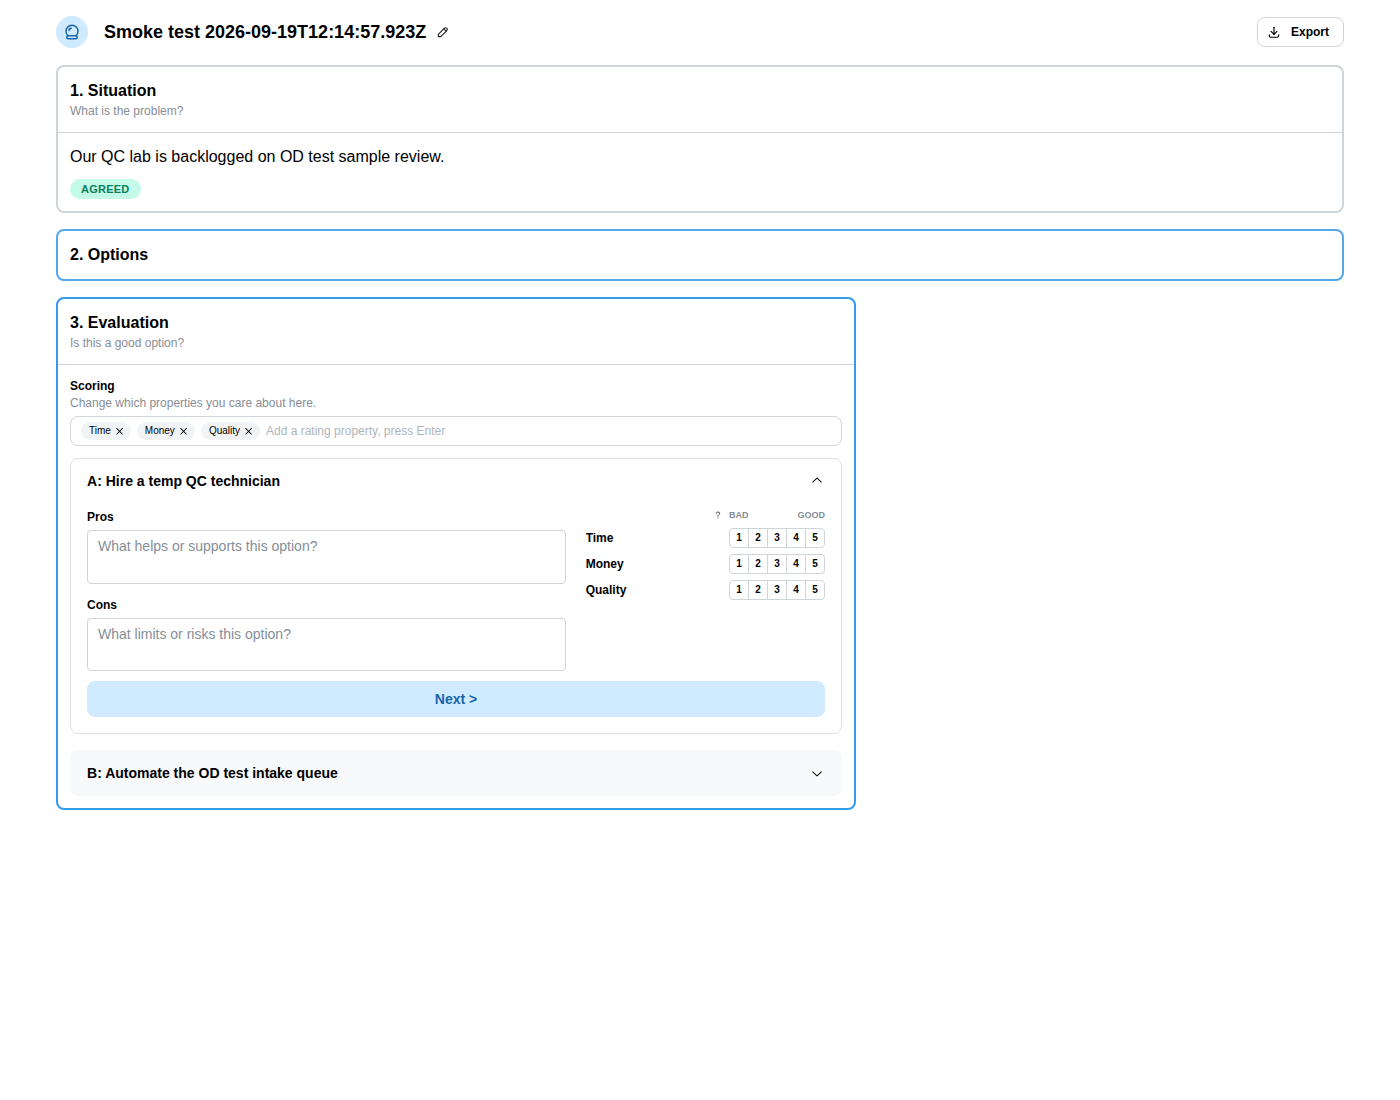
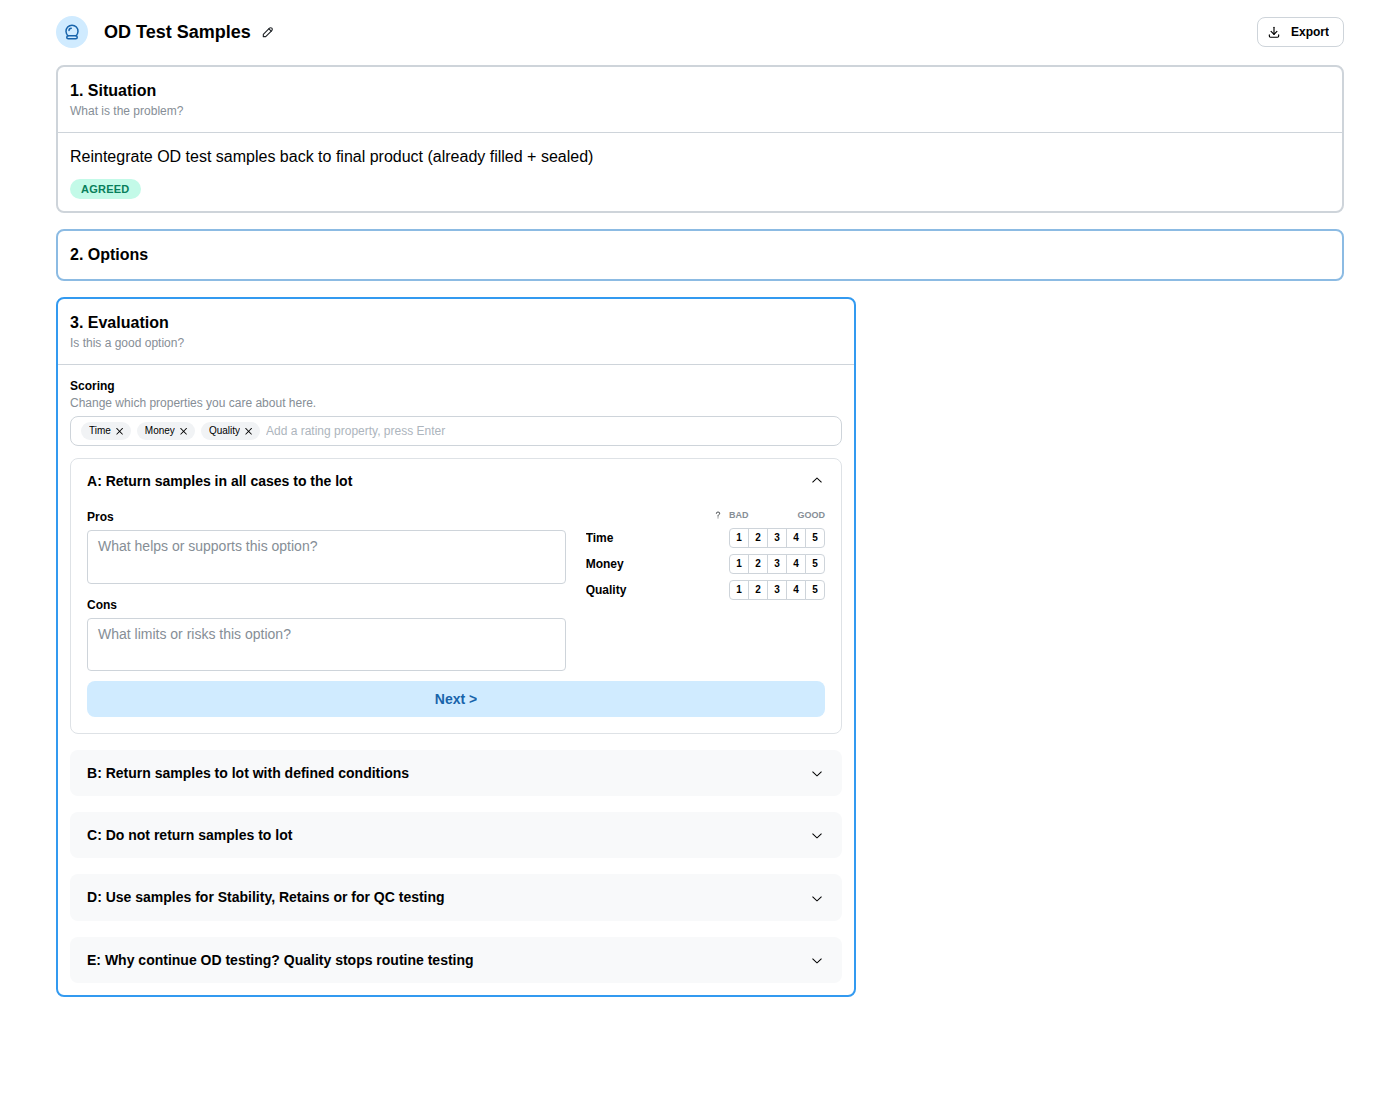
update run-app steps and screenshots

diff --git a/docs/walkthrough.md b/docs/walkthrough.md
@@ -1,7 +1,9 @@
 # Walkthrough
 
-A screenshot tour of the main user journey, one phase at a time. These images are generated,
-not hand-curated — regenerate them any time with `npm run docs:screenshots` (see
+A screenshot tour of the main user journey, one phase at a time, using the real worked example
+from `assets/original-whiteboard-example.png` (a pharma/QC decision about what to do with OD test
+samples) — text and scores are verbatim off that board. These images are generated, not
+hand-curated — regenerate them any time with `npm run docs:screenshots` (see
 `scripts/capture-doc-screenshots.sh`), which runs the same tested step sequence as
 `scripts/smoke-test.mjs`, so they can never drift from what's actually verified to work.
 
@@ -24,7 +26,7 @@ agreement check, with the rest of the phases appearing as the team moves through
 The team frames the problem in one or two sentences and confirms everyone agrees with it before
 moving on.
 
-![Situation phase filled in with the problem statement "Our QC lab is backlogged on OD test sample review."](screenshots/03-phase-1-situation.png)
+![Situation phase filled in with the problem statement "Reintegrate OD test samples back to final product (already filled + sealed)"](screenshots/03-phase-1-situation.png)
 
 ## 4. Phase 2 — Options
 
@@ -32,35 +34,53 @@ With the problem framed, the team brainstorms options — no judgment yet, just 
 Once options are in, the board advances into phase 3, where each option gets its own
 accordion panel.
 
-![Options phase with the Situation collapsed above and Evaluation phase opening below it](screenshots/04-phase-2-options.png)
+![Options phase with the Situation collapsed above and five options listed in the Evaluation phase opening below it](screenshots/04-phase-2-options.png)
 
 ## 5. Phase 3 — Evaluation
 
-Each option's panel merges its pros/cons (Good/Bad) with a set of rating properties (People,
-Time, Money, Quality, Service, Price), scored 1–5 side by side — judgment finally allowed, but
-scoped to one option at a time.
+Each option's panel merges its pros/cons (Good/Bad) with a set of rating properties, scored 1–5
+side by side — judgment finally allowed, but scoped to one option at a time. The board only ships
+three rating properties by default (Time, Money, Quality); here the other three the whiteboard
+example actually scores against (People, Service, Price) have been added via the "Scoring" picker
+at the top of the column, so all six show up per option.
 
-![Evaluation phase showing both options' pros, cons, and per-dimension ratings filled in](screenshots/05-phase-3-evaluation-good-bad-ratings-merged.png)
+![Evaluation phase showing the Scoring picker with all six rating properties, and each of the five options' pros, cons, and ratings](screenshots/05-phase-3-evaluation-good-bad-ratings-merged.png)
 
 ## 6. Phase 4 — Decision leaderboard
 
-Evaluation scores roll up into a ranked leaderboard, highest total first — here "Automate the OD
-test intake queue" (30 points) outranks "Hire a temp QC technician" (21 points). The Evaluation
-column stays visible alongside it as a read-only reference.
+Evaluation scores roll up into a ranked leaderboard, highest total first — here "Use samples for
+Stability, Retains or for QC testing" (22 points) tops the ranking, matching the whiteboard's own
+"CHOSEN: Option 4". The Evaluation column stays visible alongside it as a read-only reference.
 
-![Decision phase leaderboard ranking the two options by total score, with Evaluation still visible alongside it](screenshots/06-phase-4-decision-leaderboard.png)
+![Decision phase leaderboard ranking all five options by total score, with Evaluation still visible alongside it](screenshots/06-phase-4-decision-leaderboard.png)
 
-## 7. Decision — choose, mitigate, agree, sign
+## 7. Decision — choose, countermeasure
 
-The team selects the winning option, records a mitigation plan for its downsides, sets who the
-decision was agreed by, names an approver, and signs. Signing locks the board (read-only except
-for Next Steps) and triggers a small celebration.
+The team selects the winning option from the leaderboard and records a plan to mitigate its
+downsides — here, the whiteboard's own "Blocker Countermeasure".
 
-![Decision panel mid-sign, with the confirmation modal open and confetti animating](screenshots/07-decision-choose-countermeasure-agree-sign.png)
+![Decision panel with the top-ranked option selected and highlighted, and its countermeasure filled in](screenshots/07-decision-choose-countermeasure.png)
 
-## 8. Next steps — commit to action
+## 8. Decision — agree, sign
+
+Sets who the decision was agreed by, names an approver, and signs. Signing locks the board
+(read-only except for Next Steps) and triggers a small celebration. Clicking **Sign Decision**
+with a field still missing highlights it instead of silently doing nothing — the confirmation
+modal only opens once everything's filled in.
+
+![Decision panel mid-sign, with the confirmation modal open and confetti animating](screenshots/08-decision-agree-sign.png)
+
+## 9. Next steps — commit to action
 
 Signing hands focus to Next Steps, where the team lists concrete follow-up actions with an owner
 and due date each, then commits to lock the plan in.
 
-![Next Steps table with one committed action, owner, and due date, and the board marked as signed](screenshots/08-next-steps-add-a-step-and-commit.png)
+![Next Steps table with one committed action, owner, and due date, and the board marked as signed](screenshots/09-next-steps-add-a-step-and-commit.png)
+
+## 10. Export view
+
+Any board links to a read-only, printable export — the full record of the decision: situation,
+chosen option, countermeasure, agreement, approval, next steps, and every option's evaluation
+detail, ranked by score.
+
+![Read-only export view showing the situation, decision, next steps, and all five options ranked by score](screenshots/10-export-view.png)

diff --git a/README.md b/README.md
@@ -23,4 +23,4 @@ Originally a physical whiteboard exercise, this repo turns it into an interactiv
 
 The same phase-by-phase structure, in the app today:
 
-![Crystal Ball's board UI, showing options that have been evaluated and are now awaiting a decision](docs/screenshots/06-phase-4-decision-leaderboard.png)
+![Crystal Ball's board UI, showing options that have been evaluated and are now awaiting a decision](docs/screenshots/07-decision-choose-countermeasure.png)
